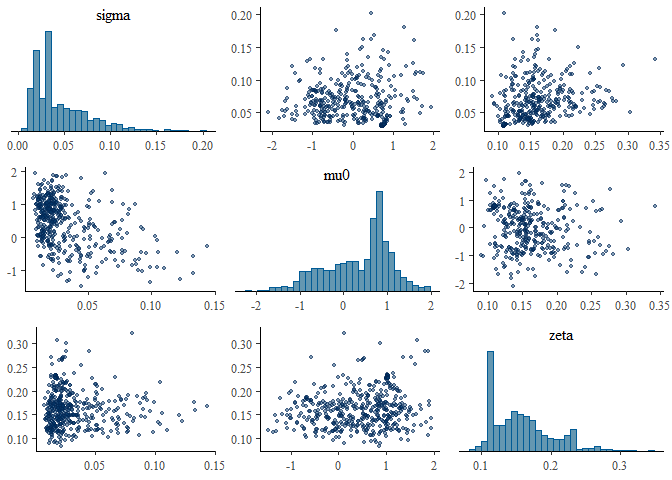
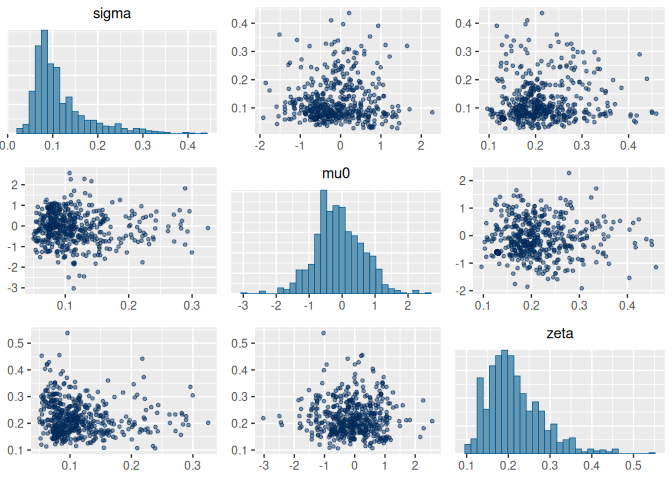
Re #46 prepare for 0.3.2 release.

diff --git a/README.md b/README.md
@@ -46,7 +46,7 @@ library(bennu)
 library(rstan)
 #> Loading required package: StanHeaders
 #> 
-#> rstan version 2.26.22 (Stan version 2.26.1)
+#> rstan version 2.32.7 (Stan version 2.32.2)
 #> For execution on a local, multicore CPU with excess RAM we recommend calling
 #> options(mc.cores = parallel::detectCores()).
 #> To avoid recompilation of unchanged Stan programs, we recommend calling
@@ -54,9 +54,8 @@ library(rstan)
 #> For within-chain threading using `reduce_sum()` or `map_rect()` Stan functions,
 #> change `threads_per_chain` option:
 #> rstan_options(threads_per_chain = 1)
-#> Do not specify '-march=native' in 'LOCAL_CPPFLAGS' or a Makevars file
 library(bayesplot)
-#> This is bayesplot version 1.10.0
+#> This is bayesplot version 1.14.0
 #> - Online documentation and vignettes at mc-stan.org/bayesplot
 #> - bayesplot theme set to bayesplot::theme_default()
 #>    * Does _not_ affect other ggplot2 plots
@@ -75,15 +74,15 @@ mcmc_pairs(fit, pars = c("sigma","mu0","zeta"),
 
 <img src="man/figures/README-example-1.png" width="100%" />
 
-An overall summary of the model output can also be provided as a
-datframe
+An overall summary of the model output can also be provided as a data
+frame
 
 ``` r
 kit_summary_table(fit, data = d)
 #> # A tibble: 1 × 6
 #>   Probability of kit use if dist…¹ Estimated as distrib…² Proportion kits dist…³
 #>   <glue>                           <glue>                 <glue>                
-#> 1 65.34% (95% CrI: 18.31% - 96.36… 24,909.00 (95% CrI: 2… 58.72% (95% CrI: 58.1…
+#> 1 64.97% (95% CrI: 12.93% - 96.79… 24,907.00 (95% CrI: 2… 21.03% (95% CrI: 20.8…
 #> # ℹ abbreviated names: ¹`Probability of kit use if distributed`,
 #> #   ²`Estimated as distributed`,
 #> #   ³`Proportion kits distributed that are reported`

diff --git a/NEWS.md b/NEWS.md
@@ -1,3 +1,6 @@
+
+* Fix `stringr` issue in tests (#44)
+
 # bennu 0.3.1
 
 * Plan to release simplified version of regression model
